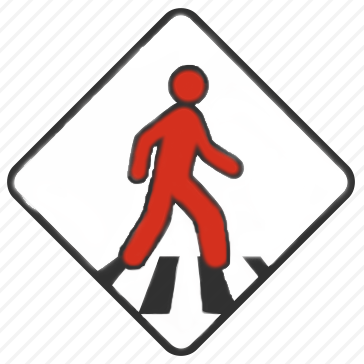
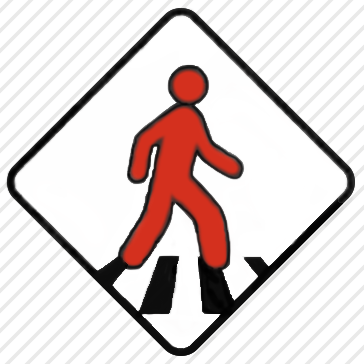
A few more mods.

diff --git a/final-story-project/index.html b/final-story-project/index.html
@@ -22,8 +22,8 @@ initial-scale=1, shrink-to-fit=no">
 <script src="https://cdnjs.cloudflare.com/ajax/libs/d3/5.7.0/d3.min.js" charset="utf-8"></script>
 <script src="https://cdnjs.cloudflare.com/ajax/libs/c3/0.6.8/c3.min.js"></script>
 <!--Tab icon-->
-<link rel="shortcut icon" href="sign4.png" type="image/x-icon">
-<link rel="icon" href="sign4.png" type="image/x-icon">
+<link rel="shortcut icon" href="sign4.png" type="image/x-icon" style="background: repeating-linear-gradient(45deg, black, white 100px);">
+<link rel="icon" href="sign4.png" type="image/x-icon" style="background: repeating-linear-gradient(45deg, black, white 100px);">
 <style>.inner-border::-webkit-scrollbar {display: none;}
 </style>
 </head>
@@ -56,8 +56,8 @@ initial-scale=1, shrink-to-fit=no">
 <!--Begin intro section-->
 <div class="intro">
 <div id="hero"><img src="art2.jpg" width= 900 height= 550 div class="hero-image">
-<p class= "caption">Pedestrians and a cyclist cross the street at the intersection of Baltimore Avenue and Knox Road in College Park, Maryland Dec. 10. Photo by Horus Alas.</p></div>
-<div id="headline">The City and Suburb: Trends in Pedestrian Fatalities in Prince George's County and College Park</div>
+<p class= "caption">Pedestrians and a cyclist cross the street at the intersection of Baltimore Avenue and Knox Road in College Park, Maryland Dec. 10. (Horus Alas)</p></div>
+<div id="headline">The city and suburb: Trends in pedestrian fatalities in Prince George's County and College Park</div>
 <p class="introtext">Last year, Prince George's County had the highest rate of pedestrian transit fatalities throughout the Washington, D.C. region. Officials in College Park, Maryland&mdash;home to the state's flagship university&mdash;say the city is getting safer for pedestrians thanks to diligent education and enforcement initiatives as well as city planning.</p>
 <div id="byline">By <a href="https://halas92.github.io/Portfolio/">Horus Alas</a><br>Dec. 10, 2018<br>JOUR 652</div>
 </div> <!--End intro section-->
@@ -66,7 +66,7 @@ initial-scale=1, shrink-to-fit=no">
 <!--Begin Chapter 1-->
 <div id="subheading">
 <div id="chapter-icon"><img src="sign4.png" div class="chap-icon"></div>
-<div id="chaptertitle"><a name="pgcounty">Pedestrian Fatalities Stand Out in Prince George's County</a></div>
+<div id="chaptertitle"><a name="pgcounty">Pedestrian fatalities stand out in Prince George's County</a></div>
 </div>
 <p class="chaptertext">Prince George's County leads the Washington area in transit fatalities, according to the fall 2018 edition of the Metropolitan Washington Council of Governments' <a href="http://www.bestreetsmart.net/docs/2018/2018-campaign-fact-sheet-fall.pdf">Street Smart</a> traffic safety campaign.<br>
 The data records 99 transit fatalities throughout the county in 2017. Of those 99 total incidents, 24 were pedestrian fatalities. Maryland's Charles County and Fairfax County in Virginia were tied for second place, each with 35 fatalities recorded. The statistics are summarized in the chart below, with the final column representing total transit fatalities for the Washington region.</p>
@@ -88,11 +88,11 @@ The map below provides context on some of the areas where these statistics are r
 <!--Begin Chapter 2-->
 <div id="subheading">
 <div id="chapter-icon"><img src="sign4.png" div class="chap-icon"></div>
-<div id="chaptertitle"><a name="cp">College Park's Traffic Safety in Context</a></div></div>
+<div id="chaptertitle"><a name="cp">College Park's traffic safety in context</a></div></div>
 <p class="chaptertext">Despite the high number of pedestrian fatalities reported in Prince George's county, officials in College Park are optimistic about a net decrease in pedestrian incidents on Baltimore Avenue&mdash;also known colloquially as "Route One"&mdash;thanks to the installation of a traffic median in the middle of the street and ongoing education and enforcement efforts.<br>
-The University of Maryland, an institution with <a href="https://irpa.umd.edu/CampusCounts/Enrollments/stuprofile_allug.pdf">30,000 undergraduate students</a> and <a href="https://irpa.umd.edu/CampusCounts/Enrollments/stuprofile_allgrad.pdf">10,000 graduate students</a> as of Fall 2018, is located due west of Route One. With a large campus community that makes extensive use of the Route One roadway, the area has seen a notable quantity of pedestrian traffic incidents over the years.</p>
+The University of Maryland&mdash;an institution with <a href="https://irpa.umd.edu/CampusCounts/Enrollments/stuprofile_allug.pdf">30,000 undergraduate students</a> and <a href="https://irpa.umd.edu/CampusCounts/Enrollments/stuprofile_allgrad.pdf">10,000 graduate students</a> as of December 2018&mdash;is located due west of Route One. With a large campus community that makes extensive use of the Route One roadway, the area has seen a notable quantity of pedestrian traffic incidents over the years.</p>
 <div id="photo2" width= 800><img src="art3.jpg" width= 800 height= 550 div class="photos">
-<p class= "caption">A pedestrian crosses Baltimore Avenue westbound, in the direction of the University of Maryland campus in College Park Dec. 10. Photo by Horus Alas.</p></div>
+<p class= "caption">A pedestrian in College Park crosses Baltimore Avenue westbound, in the direction of the University of Maryland campus, Dec. 10. (Horus Alas)</p></div>
 <p class="chaptertext">Given that 30% of pedestrian transit fatalities within the Washington area take place inside Prince Geroge's County&mdash;as shown in the chart below&mdash;the city hosting the state's flagship university should be interested in mitigating those incidents.</p>
 
 <!-- second graphic container-->
@@ -109,7 +109,7 @@ The University of Maryland, an institution with <a href="https://irpa.umd.edu/Ca
 <!--Begin Chapter 3-->
 <div id="subheading">
 <div id="chapter-icon"><img src="sign4.png" div class="chap-icon"></div>
-<div id="chaptertitle"><a name="trends">Declining Fatalities on Route One</a></div></div>
+<div id="chaptertitle"><a name="trends">Declining fatalities on Route One</a></div></div>
 <p class="chaptertext">Paulette Jones, Public Information Officer at the county's Public Works and Transportation division, cited an outreach approach emphasizing four "e"s of safety: "engineering,  education, enforcement and emergency services" in an email. She described the strategy as a way to improve public safety along roadways.<br>
 The stretch of Route One running south of this university's campus is considered a "high crash [corridor]," Jones wrote. She specified that high crash corridors are designated by the Maryland Department of Transportation's State Highway Administration as one-mile segments of road with "five or more crashes in a five-year period.<br>
 The State Highway Administration's data for 2017 records average daily traffic of 37,301 vehicles near the intersection of Route One and Campus Drive, making it among the busiest in the county.</p>
@@ -133,19 +133,25 @@ Much of the fatality decrease in the area, according to Prince George's County P
 
 <p class="chaptertext">Major Chris Price, Commander of PGPD's Special Operations Division, said that since August 2015, his unit had investigated 58 pedestrian fatalities. "Only one of these has been in College Park, in October of last year," he said.<br>
 "As of late, College Park has not seen as many crashes and fatalities," Price said. "One of the biggest things we're attributing it to is the installation of the barriers and medians along Route One. It makes it harder for pedestrians to cross illegally."<br>
-Although Price could not remember when exactly the medians were installed, "it's been at least two years," he said.<br>
+Although Price could not remember exactly when the medians were installed, he said it had been "at least two years."<br>
 Along with the medians, Price stressed the value of education in promoting pedestrian safety in the area.<br>
 "We have officers out on the corner handing out pamphlets and flyers, especially to students walking around College Park," he said.<br>
 As of this point in 2018, no new pedestrian fatalities have been reported along Route One. With continued education and enforcement, the roadway is on track to become safer for the entire campus community.</p>
 
 <div id="photo3" width= 800><img src="art1.jpg" width= 800 height= 550 div class="photos">
-<p class= "caption">Pedestrians and vehicles move along the east end of the University of Maryland campus toward the intersection of Baltimore Avenue and College Avenue in College Park Dec. 3. Photo by Horus Alas.</p></div>
-</div></div>
+<p class= "caption">Pedestrians and vehicles move along the east end of the University of Maryland campus toward the intersection of Baltimore Avenue and College Avenue in College Park Dec. 3. (Horus Alas)</p></div>
+<!--End Chapter 3-->
+
+<div class="end-links">
+<div class="icon-links">
+<a class="home-arrow" href="#hero"><i class="fas fa-arrow-up"></i></a>
+<a class="icon-sub-link" href="#hero"><p class="icon-subtitle">TOP</p></a></div>
+</div>
+</div><!--End main container-->
 
 <div id=footer><br>Created by Horus Alas for JOUR 652: Interactive Design and Development<br><br>
 &copy; 2018 <a href="https://halas92.github.io/Portfolio/" id="footer-link">Horus Alas.</a> All rights reserved.</div>
 
-</div><!--end container>
 
   <!-- c3 script-->
      <script type="text/javascript">

diff --git a/final-story-project/style.css b/final-story-project/style.css
@@ -3,8 +3,10 @@
 #introtext {font-size: 1.25em;}
 #chaptertitle, .graphic-headline, #headline {font-size: 2em;}
 .chap-icon {width: 100px;}
-.caption, #byline, .graphic-caption {font-size: 12px;}
+.caption, #byline, .graphic-caption, .icon-subtitle {font-size: 12px;}
 .chaptertext, .graphic-text, .graphic-text1 {font-size: 1em;}
+.navbar::-webkit-scrollbar {display: none;}
+nav.navbar.navbar-expand-lg.navbar-dark.bg-dark::-webkit-scrollbar {display: none;}
 #footer {font-size: 12px;}}
 
 /*Responsiveness for mid-size viewports*/
@@ -20,14 +22,15 @@ button.navbar-toggler {display: inline; float: left;}
 #photo1 {margin: 0 auto; width: 100%; height: 150;} .photos {width: 100%; height: 150;}
 #chaptertitle, #headline, .subheading, .graphic-headline {font-size: 16px;}
 .introtext, .chaptertext, .navbar, #subheading, #byline, nav {font-size: 12px; margin: 0 auto; width: 100%;}
-.caption, #byline, .graphic-caption, #footer {font-size: 10px;}
+.caption, #byline, .graphic-caption, #footer, .icon-subtitle {font-size: 10px;}
 .graphic-text, .graphic-text1 {font-size: 12px;}
 #hero, .hero-image, .photos, #photo1, #photo2, #photo3 {margin: 0 auto; width: 100%; height: auto;}
 .chap-icon {width: 10%;}
 .nav-item, .nav-item-active, .nav-link, .navbar, ul.navbar-nav, {margin: 0 auto; width: 100%;}}
 
 /*Responsiveness for smallest, mobile viewports*/
-@media only screen and (max-width: 400px) {.caption, #byline, .graphic-caption, #footer {font-size: 8px;}}
+@media only screen and (max-width: 400px) {.caption, #byline, .graphic-caption, #footer, .icon-subtitle {font-size: 8px;}
+nav.navbar.navbar-expand-lg.navbar-dark.bg-dark::-webkit-scrollbar {display: none;}}
 
 /*Responsive navbar behaviors*/
 @media only screen and (max-width: 770px) {button.navbar-toggler {display: none;}
@@ -36,9 +39,12 @@ button.navbar-toggler {display: inline; float: left;}
 @media only screen and (min-width: 810px) {img.icon {display: inline;}}
 
 /*links and interactives*/
+html {scroll-behavior: smooth;}
 a, a:link {color: #e0162b;}
 a:hover {color: #0052a5;}
 a:visited {#999;}
+a.home-arrow:hover {font-size: 150%; transition: .5s;}
+a.icon-sub-link:hover {text-decoration: none;}
 #footer-link {color: rgba(255,255,255,0.6);}
 #footer-link:hover {color: rgba(255,255,255,1); text-decoration: none;}
 .red {color: #e0162b;}
@@ -51,9 +57,13 @@ ul.navbar-nav {margin-left: 20%; display: inline;}
 .container {max-width: 3000px; width: 100%; margin: 0 auto; padding-left: 0px; padding-right: 0px;}
 .navbar {font-family: 'Montserrat', sans-serif;}
 .navbar::-webkit-scrollbar {display: none;}
+nav.navbar.navbar-expand-lg.navbar-dark.bg-dark::-webkit-scrollbar {display: none;}
 .intro {max-width: 1200px; margin: 0 auto;}
 .content {max-width: 1200px; margin: 0 auto;}
-.graphic-container {padding-top:30px; padding-bottom:30px; border-top:1px solid #cdcdcd; border-bottom:1px solid #cdcdcd; font-family: 'Montserrat', sans-serif; margin:0 auto; margin-bottom: 20px; max-width: 1000px; width: 100%}
+.graphic-container {padding-top:30px; padding-bottom:30px; border-top:1px solid #cdcdcd; border-bottom:1px solid #cdcdcd; font-family: 'Montserrat', sans-serif; margin:0 auto; margin-top: 20px; margin-bottom: 20px; max-width: 1000px; width: 100%}
+iframe {margin-top: 4%; margin-bottom: 4%;}
+.end-links {width: 100%; margin: 0 auto; height: auto; display: block; margin-bottom: 30px; text-align: right; padding-right: 5%;}
+.icon-links {display: inline-block; text-align: center;}
 #footer {width: 100%; margin: 0 auto; background-color: black; height: 75px; color: white; font-family: 'Montserrat', arial, sans-serif; display: block; margin-top: 30px; padding-left: 2%; padding-right: 2%; text-align: center;}
 
 /*Text, etc.*/
@@ -76,7 +86,7 @@ p {text-align: left; line-height: 180%;}
 #banner-icon {margin-right: 5px;}
 .hero-image {width: 100%; max-width: 900px; margin: 0 auto;}
 #hero {text-align: center; margin: 0 auto; padding-top: 5px; padding-left: 5px; padding-right: 5px; max-width: 900px; margin-top: 50px;}
-.chap-icon {display: inline;}
+.chap-icon {display: inline; background: repeating-linear-gradient(45deg, black, white 100px);}
 #chapter-icon {margin-right: 5px; display: inline;}
 #photo1, #photo2, #photo3 {width: 100%; max-width: 900px; margin: 0 auto;}
 .photos {text-align: center; margin: 0 auto; margin-top: 30px; max-width: 800; width: 100%;}
